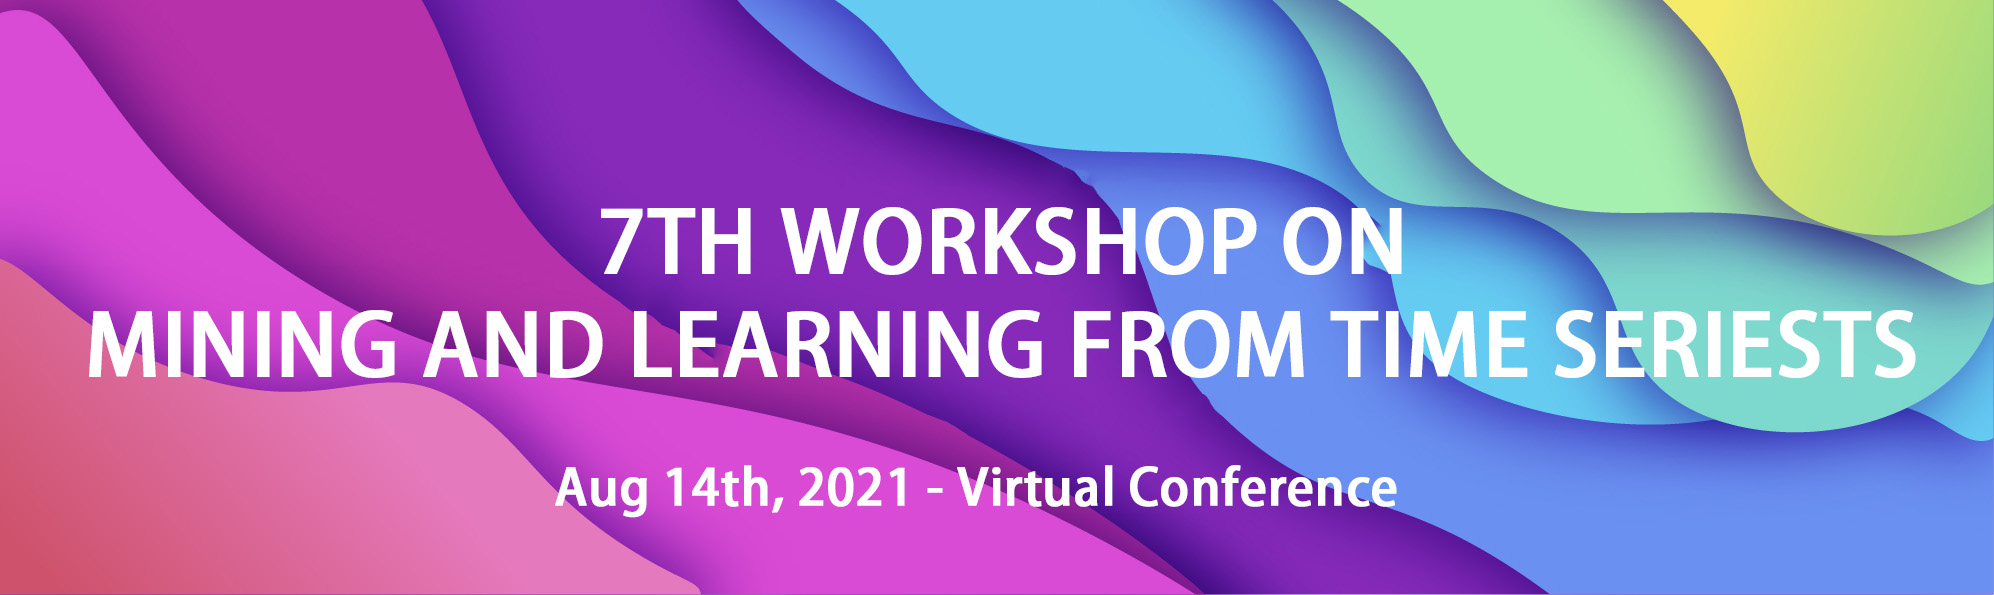
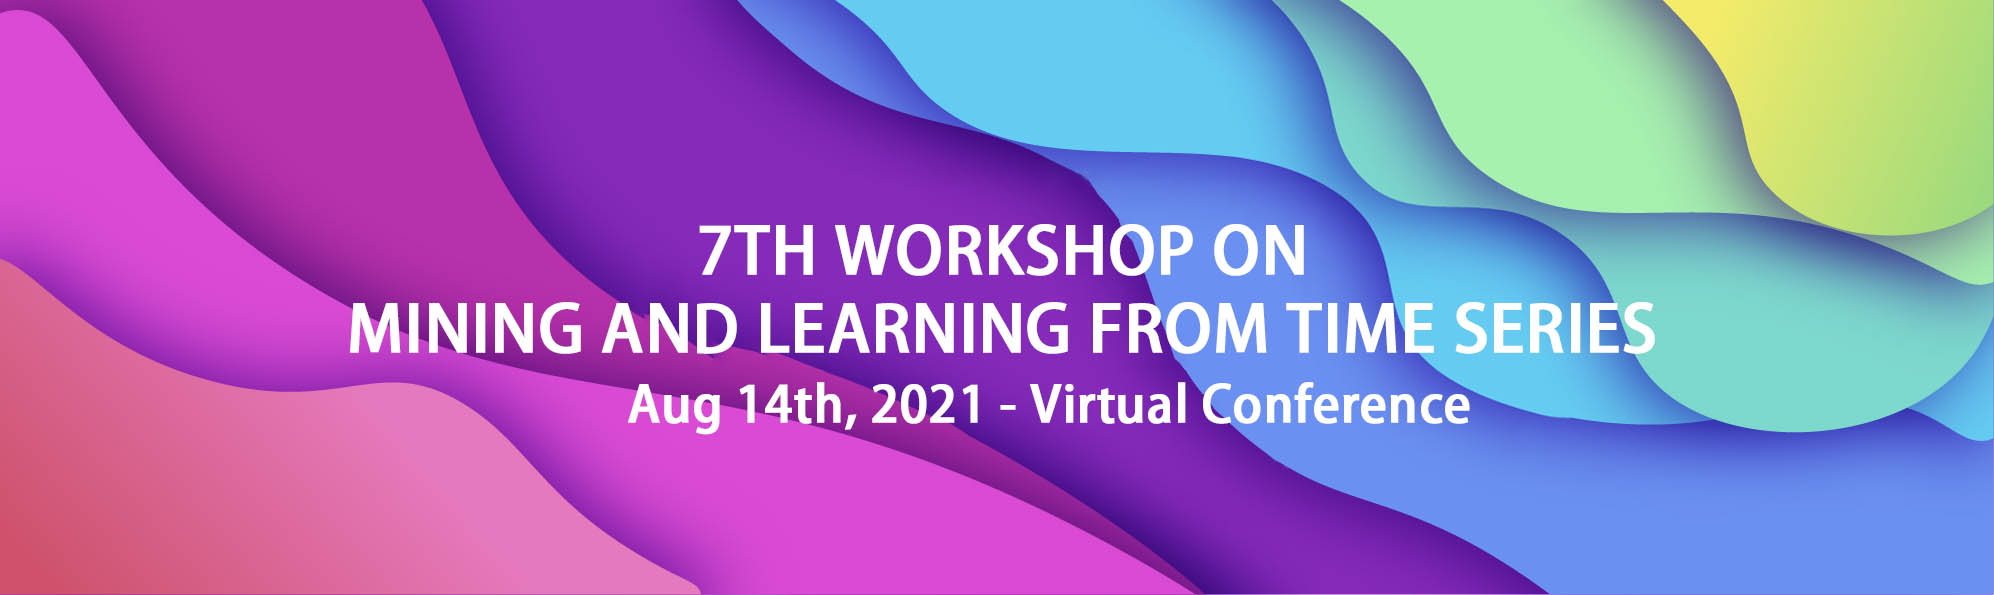
Updates header image.

Changed region(s): [[0.0311, 0.3328, 0.9639, 0.7261], [0.2798, 0.7866, 0.7151, 0.8773]]

diff --git a/milets2021/css/agency.css b/milets2021/css/agency.css
@@ -266,11 +266,10 @@ header {
     background-position: center center;
     -webkit-background-size: cover;
     -moz-background-size: cover;
-    background-size: cover;
     -o-background-size: cover;
+    background-size: cover;
     text-align: center;
     color: #333;
-    /* padding: 100px; */
 }
 
 header .intro-text {
